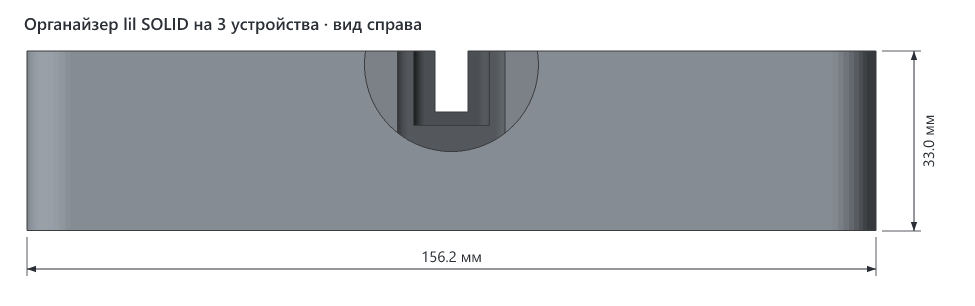
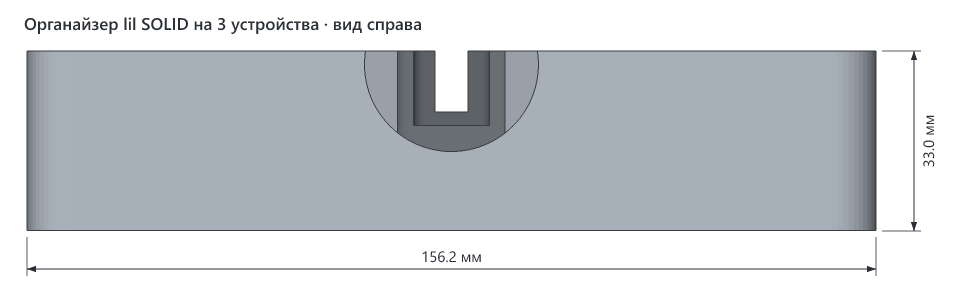
lil-solid-organizer: картинки с содержимым для всех вариантов
Генератор с флагом --filled кладёт в органайзер условные устройства,
пачки HEETS, чистилку и кабель с зарядкой. Файлы для печати не изменились.
filled.png — первая картинка на страницах вариантов и в таблице семейства,
остальные картинки перерисованы с новым светом. Вариант на 4 устройства
напечатан чёрным и переведён в статус «на проверке».

diff --git a/models/lil-solid-organizer/src/organizer.py b/models/lil-solid-organizer/src/organizer.py
@@ -8,6 +8,9 @@
 uv run organizer.py 4            -> вариант на 4 устройства: lil-solid-organizer-4-devices.3mf
 uv run organizer.py 3 out.3mf    -> вариант на 3 устройства в указанный файл
 uv run organizer.py test         -> пробник на 2 ложа: lil-solid-organizer-test.3mf
+uv run organizer.py 4 --filled   -> сцена для картинки: органайзер с устройствами, пачками,
+                                    чистилкой и кабелем, у каждой детали свой цвет.
+                                    Не для печати! Файл: lil-solid-organizer-4-devices-filled.3mf
 Без uv: pip install numpy manifold3d, дальше python вместо uv run.
 """
 import sys
@@ -53,6 +56,20 @@ x_cl0 = x_dev1 + 6.4
 x_cl1 = x_cl0 + clean_w
 W = max(x_cl1 + 4.0, 2 * heets_l + WALL + 2 * 3.5)   # пачки не должны съедать боковые стенки
 
+# ---------- содержимое: только для картинки «с содержимым», на печать не влияет ----------
+DEV_R = 6.0                                      # скругление продольных рёбер устройства (на глаз)
+DEV_CAP_L = 16.0                                 # торцевая крышка устройства справа
+BUTTON_AT = 66.0                                 # кнопка-индикатор: расстояние от левого торца
+HEETS_H = 52.0                                   # высота пачки (примерно)
+HEETS_LID_H = 13.0                               # цветная крышка пачки
+CLEAN_CAP_L = 22.0                               # цветной колпачок чистилки
+CABLE_R = 2.0                                    # кабель зарядки
+DEV_COLORS = ["#2f3a5a", "#7a5c66", "#2e3138", "#5d636e"]
+DEV_CAP_COLOR, BUTTON_COLOR = "#a3a9b2", "#dfe3e8"
+PACK_COLOR, PACK_LID_COLORS = "#eef1f3", ["#1d9fa3"]
+CLEAN_COLOR, CLEAN_CAP_COLOR = "#2b2d31", "#f2701f"
+CABLE_COLOR = "#e39ab0"
+
 
 def rrect(x0, y0, w, h, r, z0, z1):
     """Скруглённый прямоугольник, выдавленный от z0 до z1."""
@@ -75,6 +92,17 @@ def cyl_x(xc, yc, zc, r, length):
 def cyl_y(xc, yc, zc, r, length):
     return (Manifold.cylinder(length, r, circular_segments=96)
             .rotate([-90, 0, 0]).translate([xc, yc - length / 2, zc]))
+
+
+def cyl_z(xc, yc, z0, z1, r):
+    return Manifold.cylinder(z1 - z0, r, circular_segments=48).translate([xc, yc, z0])
+
+
+def bar_x(x0, x1, yc, zc, w, h, r):
+    """Брусок вдоль X со скруглёнными продольными рёбрами: сечение w (по Y) × h (по Z)."""
+    cs = (CrossSection.square([h - 2 * r, w - 2 * r]).translate([r - h / 2, r - w / 2])
+          .offset(r, JoinType.Round, circular_segments=48))
+    return Manifold.extrude(cs, x1 - x0).rotate([0, 90, 0]).translate([x0, yc, zc])
 
 
 def u_scoop_y(xc, y0, y1, r, z_bottom):
@@ -149,28 +177,98 @@ def build(n=N_DEV, test=False):
     model = body
     for c in cuts:
         model = model - c
-    return model, (Wt, Dt, H)
+    layout = {"rows_y0": rows_y0, "hxs": hxs[:1] if test else hxs, "packs_y0": (y_f0,) if test else (y_f0, y_h0),
+              "clean_y0": None if test else clean_y0, "clean_floor": None if test else clean_floor}
+    return model, (Wt, Dt, H), layout
 
 
-def write_3mf(path, model, name):
-    mesh = model.to_mesh()
-    verts = np.asarray(mesh.vert_properties)[:, :3]
-    tris = np.asarray(mesh.tri_verts)
-    v = "\n".join(f'<vertex x="{a:.4f}" y="{b:.4f}" z="{c:.4f}"/>' for a, b, c in verts)
-    t = "\n".join(f'<triangle v1="{a}" v2="{b}" v3="{c}"/>' for a, b, c in tris)
-    model_xml = f'''<?xml version="1.0" encoding="UTF-8"?>
-<model unit="millimeter" xml:lang="en-US" xmlns="http://schemas.microsoft.com/3dmanufacturing/core/2015/02">
-<metadata name="Title">{name}</metadata>
-<resources>
-<object id="1" type="model" name="{name}">
+def contents(layout):
+    """Содержимое органайзера для картинки: список (имя, Manifold, цвет)."""
+    parts = []
+    for i, y0 in enumerate(layout["rows_y0"]):
+        yc = y0 + slot_w / 2
+        x0, x1 = x_dev0 + CLR_L, x_dev1 - CLR_L
+        zc = FLOOR + DEV_W / 2
+        parts.append((f"device-{i + 1}", bar_x(x0, x1 - DEV_CAP_L, yc, zc, DEV_T, DEV_W, DEV_R),
+                      DEV_COLORS[i % len(DEV_COLORS)]))
+        parts.append((f"device-{i + 1}-cap", bar_x(x1 - DEV_CAP_L, x1, yc, zc, DEV_T, DEV_W, DEV_R),
+                      DEV_CAP_COLOR))
+        top = FLOOR + DEV_W
+        parts.append((f"device-{i + 1}-button",
+                      rrect(x0 + BUTTON_AT - 3.25, yc - 3.25, 6.5, 6.5, 1.5, top - 0.3, top + 0.5),
+                      BUTTON_COLOR))
+
+    # кабель с штекером — в первом ложе, чтобы было видно, что устройство заряжается на месте
+    yc = layout["rows_y0"][0] + slot_w / 2
+    x_plug = x_dev0 + CLR_L
+    x_out, x_end = -12.0, -40.0
+    plug = bar_x(x_plug - 20.0, x_plug, yc, port_zc, 7.0, 11.5, 2.0)
+    cable = (cyl_x((x_out + x_plug - 20.0) / 2, yc, port_zc, CABLE_R, x_plug - 20.0 - x_out)
+             + Manifold.sphere(CABLE_R, 48).translate([x_out, yc, port_zc])
+             + cyl_z(x_out, yc, CABLE_R, port_zc, CABLE_R)
+             + Manifold.sphere(CABLE_R, 48).translate([x_out, yc, CABLE_R])
+             + cyl_x((x_end + x_out) / 2, yc, CABLE_R, CABLE_R, x_out - x_end))
+    parts += [("plug", plug, "#d8dbe0"), ("cable", cable, CABLE_COLOR)]
+
+    z0 = H - HEETS_DEPTH
+    k = 0
+    for py in layout["packs_y0"]:
+        for hx in layout["hxs"]:
+            x0, y0 = hx + HEETS_CLR, py + HEETS_CLR
+            parts.append((f"pack-{k + 1}",
+                          rrect(x0, y0, HEETS_W, HEETS_T, 1.0, z0, z0 + HEETS_H - HEETS_LID_H),
+                          PACK_COLOR))
+            parts.append((f"pack-{k + 1}-lid",
+                          rrect(x0, y0, HEETS_W, HEETS_T, 1.0, z0 + HEETS_H - HEETS_LID_H, z0 + HEETS_H),
+                          PACK_LID_COLORS[k % len(PACK_LID_COLORS)]))
+            k += 1
+
+    if layout["clean_y0"] is not None:
+        xc = (x_cl0 + x_cl1) / 2
+        zc = layout["clean_floor"] + CLEAN_D / 2
+        y0 = layout["clean_y0"] + 0.5
+        body_l = CLEAN_L - CLEAN_CAP_L
+        parts.append(("cleaner", cyl_y(xc, y0 + body_l / 2, zc, CLEAN_D / 2, body_l), CLEAN_COLOR))
+        parts.append(("cleaner-cap", cyl_y(xc, y0 + body_l + CLEAN_CAP_L / 2, zc, CLEAN_D / 2, CLEAN_CAP_L),
+                      CLEAN_CAP_COLOR))
+    return parts
+
+
+def write_3mf(path, parts, title):
+    """parts — список (имя, Manifold, цвет '#RRGGBB' или None). Цвета нужны только картинкам."""
+    colored = [(name, color) for name, _, color in parts if color]
+    resources, items = [], []
+    if colored:
+        resources.append('<basematerials id="1">\n' + "\n".join(
+            f'<base name="{name}" displaycolor="{color}"/>' for name, color in colored) + "\n</basematerials>")
+    pindex = 0
+    for i, (name, model, color) in enumerate(parts):
+        oid = i + 2 if colored else i + 1
+        mesh = model.to_mesh()
+        verts = np.asarray(mesh.vert_properties)[:, :3]
+        tris = np.asarray(mesh.tri_verts)
+        v = "\n".join(f'<vertex x="{a:.4f}" y="{b:.4f}" z="{c:.4f}"/>' for a, b, c in verts)
+        t = "\n".join(f'<triangle v1="{a}" v2="{b}" v3="{c}"/>' for a, b, c in tris)
+        mat = ""
+        if color:
+            mat = f' pid="1" pindex="{pindex}"'
+            pindex += 1
+        resources.append(f'''<object id="{oid}" type="model" name="{name}"{mat}>
 <mesh><vertices>
 {v}
 </vertices><triangles>
 {t}
 </triangles></mesh>
-</object>
+</object>''')
+        items.append(f'<item objectid="{oid}"/>')
+    resources_xml = "\n".join(resources)
+    model_xml = f'''<?xml version="1.0" encoding="UTF-8"?>
+<model unit="millimeter" xml:lang="en-US" xmlns="http://schemas.microsoft.com/3dmanufacturing/core/2015/02">
+<metadata name="Title">{title}</metadata>
+<resources>
+{resources_xml}
 </resources>
-<build><item objectid="1"/></build>
+<build>{"".join(items)}</build>
 </model>'''
     ct = '''<?xml version="1.0" encoding="UTF-8"?>
 <Types xmlns="http://schemas.openxmlformats.org/package/2006/content-types">
@@ -185,16 +283,24 @@ def write_3mf(path, model, name):
         z.writestr("[Content_Types].xml", ct)
         z.writestr("_rels/.rels", rels)
         z.writestr("3D/3dmodel.model", model_xml)
-    return verts, tris
 
 
 if __name__ == "__main__":
-    arg = sys.argv[1] if len(sys.argv) > 1 else str(N_DEV)
+    args = sys.argv[1:]
+    filled = "--filled" in args
+    args = [a for a in args if a != "--filled"]
+    arg = args[0] if args else str(N_DEV)
     test = arg == "test"
     n = 2 if test else int(arg)
     name = "lil-solid-organizer-test" if test else f"lil-solid-organizer-{n}-devices"
-    fname = sys.argv[2] if len(sys.argv) > 2 else f"{name}.3mf"
-    model, (w, d, h) = build(n, test)
-    write_3mf(fname, model, name)
+    if filled:
+        name += "-filled"
+    fname = args[1] if len(args) > 1 else f"{name}.3mf"
+    model, (w, d, h), layout = build(n, test)
+    parts = [(name, model, None)]
+    if filled:
+        parts += contents(layout)
+    write_3mf(fname, parts, name)
     print(f"{fname}: {w:.1f} × {d:.1f} × {h:.1f} мм, объём {model.volume()/1000:.1f} см³, "
-          f"genus {model.genus()}, статус {model.status()}")
+          f"genus {model.genus()}, статус {model.status()}"
+          + (f", деталей в сцене {len(parts)}" if filled else ""))

diff --git a/models/lil-solid-organizer/README.md b/models/lil-solid-organizer/README.md
@@ -6,11 +6,13 @@
 
 | | Вариант | Габариты, мм | Версия | Статус |
 |---|---|---|---|---|
-| <img src="lil-solid-organizer-2-devices/v1/img/iso.png" width="260"> | [На 2 устройства](lil-solid-organizer-2-devices/README.md) | 165.6 × 128.6 × 33.0 | v1 | черновик |
-| <img src="lil-solid-organizer-3-devices/v1/img/iso.png" width="260"> | [На 3 устройства](lil-solid-organizer-3-devices/README.md) | 165.6 × 156.2 × 33.0 | v1 | черновик |
-| <img src="lil-solid-organizer-4-devices/v1/img/iso.png" width="260"> | [На 4 устройства](lil-solid-organizer-4-devices/README.md) | 165.6 × 190.4 × 33.0 | v1 | не указан |
+| <img src="lil-solid-organizer-2-devices/v1/img/filled.png" width="300"> | [На 2 устройства](lil-solid-organizer-2-devices/README.md) | 165.6 × 128.6 × 33.0 | v1 | черновик |
+| <img src="lil-solid-organizer-3-devices/v1/img/filled.png" width="300"> | [На 3 устройства](lil-solid-organizer-3-devices/README.md) | 165.6 × 156.2 × 33.0 | v1 | черновик |
+| <img src="lil-solid-organizer-4-devices/v1/img/filled.png" width="300"> | [На 4 устройства](lil-solid-organizer-4-devices/README.md) | 165.6 × 190.4 × 33.0 | v1 | на проверке |
 
-Вариант на 4 устройства — исходный, с него всё началось. Варианты на 2 и 3 получены из того же генератора и ещё не печатались.
+На картинках органайзеры показаны с содержимым: так сразу видно, что куда кладётся. Устройства, пачки и чистилка нарисованы условно, печатается только сам бокс. Проекции с размерами — на страницах вариантов.
+
+Вариант на 4 устройства — исходный, с него всё началось: он напечатан и используется. Варианты на 2 и 3 получены из того же генератора и ещё не печатались.
 
 ## Что это
 
@@ -45,7 +47,7 @@
 - Все варианты помещаются на стол K1C (220 × 220 мм) целиком.
 - Печатается дном на стол, как лежит в файле. Поддержки не нужны: все выемки открыты сверху, нависаний нет (вывод по геометрии).
 - В 3mf только геометрия, без настроек слайсера: файлы сгенерированы скриптом.
-- Материал и цвет пока не указаны.
+- Вариант на 4 устройства напечатан чёрным пластиком, материал не указан.
 
 ## Исходники
 
@@ -60,6 +62,13 @@ uv run organizer.py test   # → пробник на 2 ложа и одну па
 ```
 
 `uv` сам поставит Python и библиотеки. Без него: `pip install numpy manifold3d`, дальше `python` вместо `uv run`. Вторым аргументом можно задать имя выходного файла: `uv run organizer.py 3 out.3mf`.
+
+Картинка с содержимым делается из отдельной сцены. Генератор кладёт в органайзер условные устройства, пачки, чистилку и кабель, у каждой детали свой цвет. Эта сцена не для печати и в репозиторий не кладётся: её всегда можно получить заново.
+
+```bash
+uv run organizer.py 4 --filled scene.3mf
+node ../../../tools/render-3mf.mjs scene.3mf ../lil-solid-organizer-4-devices/v1/img --filled --name "Органайзер lil SOLID на 4 устройства"
+```
 
 ## Заметки
 

diff --git a/models/lil-solid-organizer/lil-solid-organizer-4-devices/README.md b/models/lil-solid-organizer/lil-solid-organizer-4-devices/README.md
@@ -1,9 +1,9 @@
 # Органайзер lil SOLID на 4 устройства
 
-> **Версия:** v1 · **Статус:** не указан · **Обновлено:** 2026-10-30
+> **Версия:** v1 · **Статус:** на проверке · **Обновлено:** 2026-10-30
 > **Семейство:** [Органайзер для IQOS lil SOLID](../README.md) — там подробное описание, посадочные места и другие варианты.
 
-![Общий вид](v1/img/iso.png)
+![С содержимым](v1/img/filled.png)
 
 ## Что это
 
@@ -17,6 +17,8 @@
 
 ## Виды (v1)
 
+![Общий вид](v1/img/iso.png)
+
 ![Вид сверху](v1/img/top.png)
 
 ![Вид спереди](v1/img/front.png)
@@ -29,7 +31,7 @@
 
 | Параметр | Значение |
 |---|---|
-| Материал / цвет | не указан |
+| Материал / цвет | чёрный; материал не указан |
 | Сопло / высота слоя | 0.4 мм / не указана |
 | Стенки / заполнение | не указаны |
 | Поддержки | не нужны |
@@ -51,17 +53,18 @@ uv run organizer.py 4
 | Файл | Что это |
 |---|---|
 | `v1/lil-solid-organizer-4-devices-v1.3mf` | модель для печати, только геометрия |
-| `v1/img/*.png` | общий вид и проекции с размерами |
+| `v1/img/*.png` | общий вид, проекции с размерами и вид с содержимым (`filled.png`) |
 
 ## Заметки
 
+- v1 напечатана и используется: все отсеки заполняются, устройство заряжается прямо в ложе. Есть проблемы, их исправит следующая версия.
 - 2026-10-30 3mf перегенерирован общим генератором. Геометрия совпадает с исходным файлом вершина в вершину. Поменялось только имя объекта внутри 3mf: раньше там стояло старое «lil SOLID organizer v4».
 
 ## История версий
 
 | Версия | Дата | Что изменилось и почему | Печать |
 |---|---|---|---|
-| v1 | 2026-10-28 | Первая версия | не указано |
+| v1 | 2026-10-28 | Первая версия | напечатана чёрным; есть проблемы — исправит v2 |
 
 ## Лицензия
 

diff --git a/REGISTRY.md b/REGISTRY.md
@@ -6,4 +6,4 @@
 |---|---|---|---|---|---|---|
 | [Органайзер lil SOLID на 2 устройства](models/lil-solid-organizer/lil-solid-organizer-2-devices/README.md) | 2 устройства lil SOLID 3.0 с зарядкой на месте, 4 пачки HEETS, чистилка | v1 | 165.6 × 128.6 × 33.0 | не указан | черновик | 2026-10-30 |
 | [Органайзер lil SOLID на 3 устройства](models/lil-solid-organizer/lil-solid-organizer-3-devices/README.md) | 3 устройства lil SOLID 3.0 с зарядкой на месте, 4 пачки HEETS, чистилка | v1 | 165.6 × 156.2 × 33.0 | не указан | черновик | 2026-10-30 |
-| [Органайзер lil SOLID на 4 устройства](models/lil-solid-organizer/lil-solid-organizer-4-devices/README.md) | 4 устройства lil SOLID 3.0 с зарядкой на месте, 4 пачки HEETS, чистилка | v1 | 165.6 × 190.4 × 33.0 | не указан | не указан | 2026-10-30 |
+| [Органайзер lil SOLID на 4 устройства](models/lil-solid-organizer/lil-solid-organizer-4-devices/README.md) | 4 устройства lil SOLID 3.0 с зарядкой на месте, 4 пачки HEETS, чистилка | v1 | 165.6 × 190.4 × 33.0 | чёрный; материал не указан | на проверке | 2026-10-30 |

diff --git a/models/lil-solid-organizer/lil-solid-organizer-3-devices/README.md b/models/lil-solid-organizer/lil-solid-organizer-3-devices/README.md
@@ -3,7 +3,7 @@
 > **Версия:** v1 · **Статус:** черновик · **Обновлено:** 2026-10-30
 > **Семейство:** [Органайзер для IQOS lil SOLID](../README.md) — там подробное описание, посадочные места и другие варианты.
 
-![Общий вид](v1/img/iso.png)
+![С содержимым](v1/img/filled.png)
 
 ## Что это
 
@@ -16,6 +16,8 @@
 | 165.6 мм | 156.2 мм | 33.0 мм |
 
 ## Виды (v1)
+
+![Общий вид](v1/img/iso.png)
 
 ![Вид сверху](v1/img/top.png)
 
@@ -51,7 +53,7 @@ uv run organizer.py 3
 | Файл | Что это |
 |---|---|
 | `v1/lil-solid-organizer-3-devices-v1.3mf` | модель для печати, только геометрия |
-| `v1/img/*.png` | общий вид и проекции с размерами |
+| `v1/img/*.png` | общий вид, проекции с размерами и вид с содержимым (`filled.png`) |
 
 ## История версий
 

diff --git a/models/lil-solid-organizer/lil-solid-organizer-2-devices/README.md b/models/lil-solid-organizer/lil-solid-organizer-2-devices/README.md
@@ -3,7 +3,7 @@
 > **Версия:** v1 · **Статус:** черновик · **Обновлено:** 2026-10-30
 > **Семейство:** [Органайзер для IQOS lil SOLID](../README.md) — там подробное описание, посадочные места и другие варианты.
 
-![Общий вид](v1/img/iso.png)
+![С содержимым](v1/img/filled.png)
 
 ## Что это
 
@@ -18,6 +18,8 @@
 | 165.6 мм | 128.6 мм | 33.0 мм |
 
 ## Виды (v1)
+
+![Общий вид](v1/img/iso.png)
 
 ![Вид сверху](v1/img/top.png)
 
@@ -53,7 +55,7 @@ uv run organizer.py 2
 | Файл | Что это |
 |---|---|
 | `v1/lil-solid-organizer-2-devices-v1.3mf` | модель для печати, только геометрия |
-| `v1/img/*.png` | общий вид и проекции с размерами |
+| `v1/img/*.png` | общий вид, проекции с размерами и вид с содержимым (`filled.png`) |
 
 ## Заметки
 
